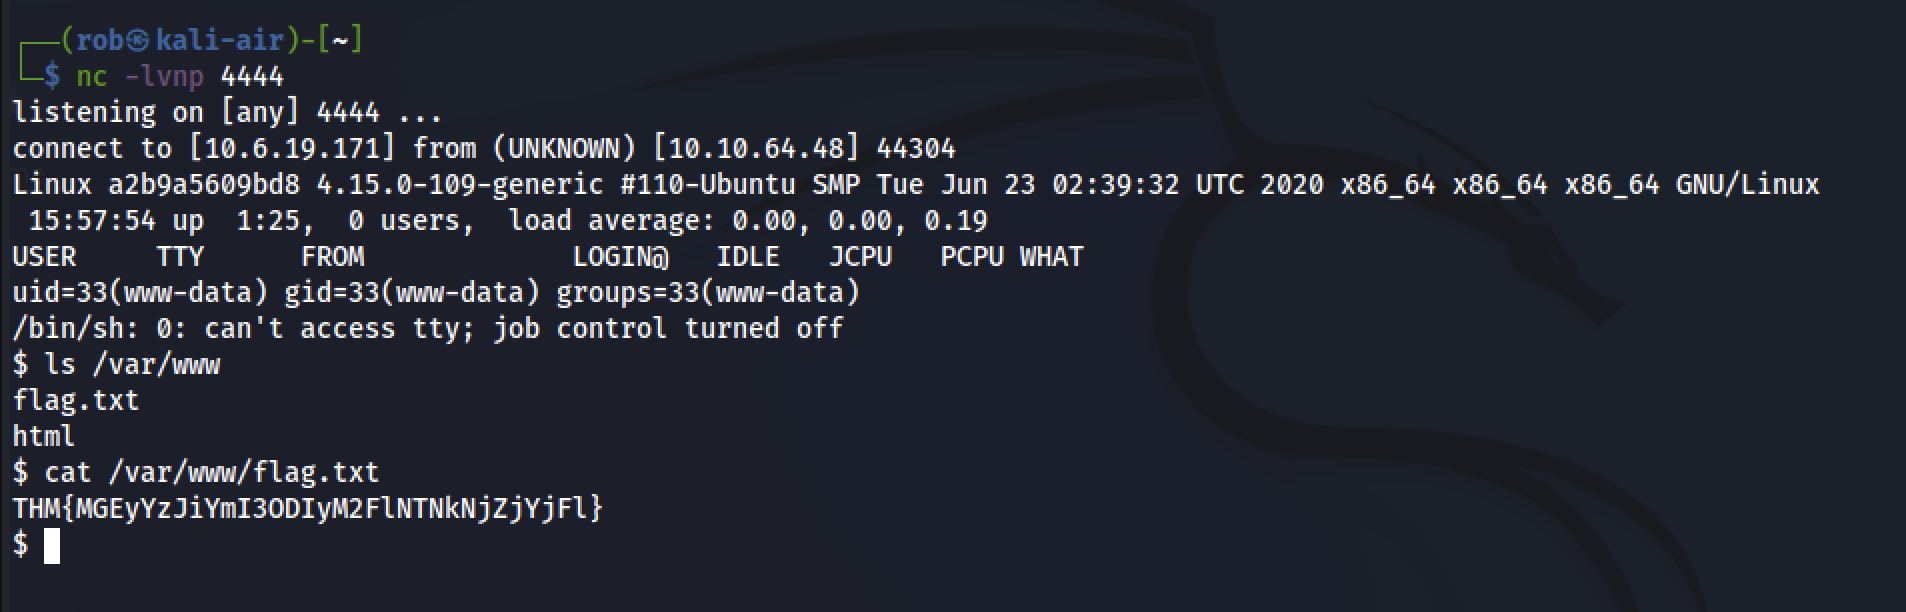
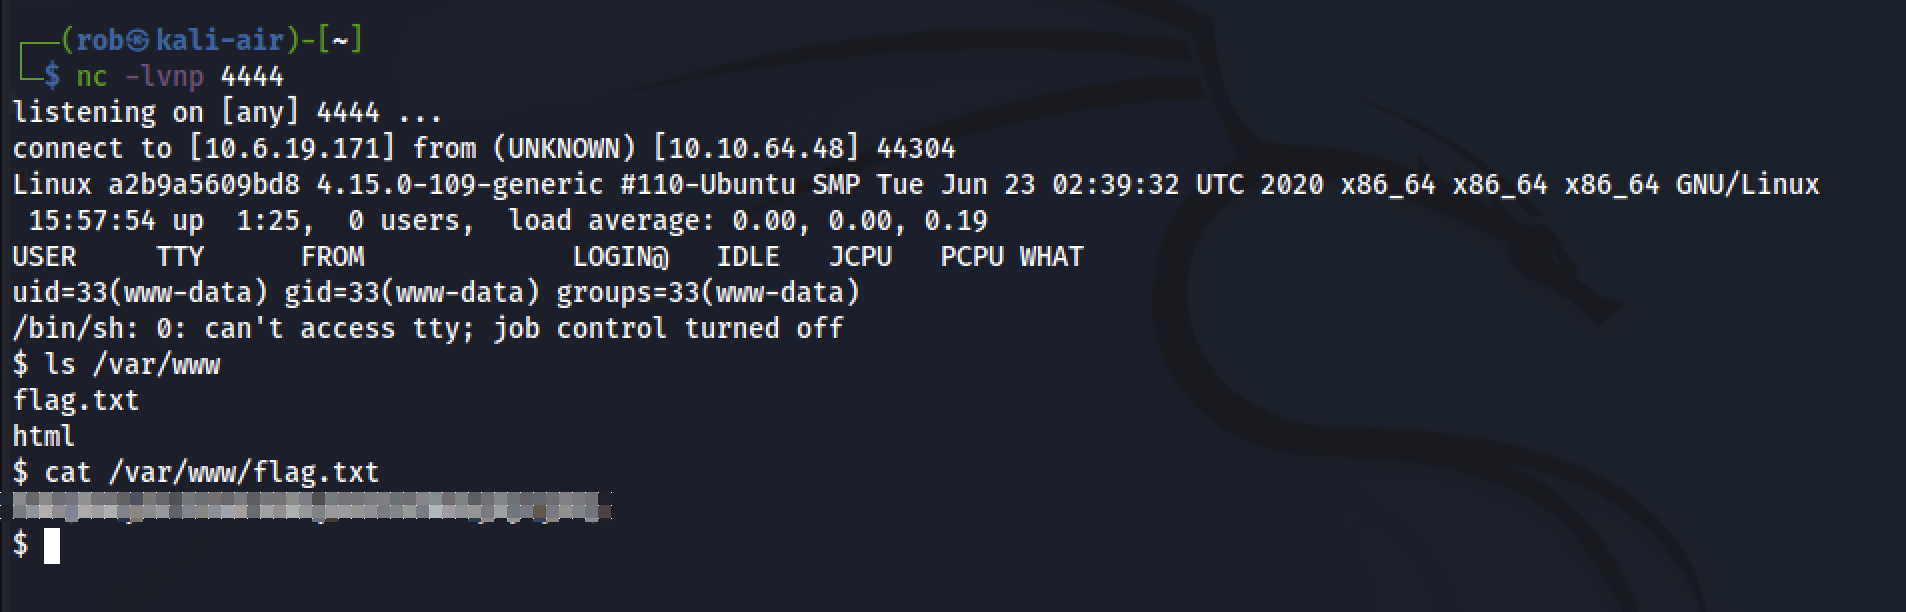
copyediting

Changed region(s): [[0.0, 0.7761, 0.3405, 0.8693]]

diff --git a/docs/posts/2022/04/thm-upload-vulnerabilities-write-up/index.html b/docs/posts/2022/04/thm-upload-vulnerabilities-write-up/index.html
@@ -43,7 +43,7 @@ Task 1 - Getting Started The room begins with a necessary configuration step. Th
 &lt;machine-ip&gt; overwrite.uploadvulns.thm shell.uploadvulns.thm java.uploadvulns.thm annex.uploadvulns.thm magic.uploadvulns.thm jewel.uploadvulns.thm demo.uploadvulns.thm
 Note: You will require administrator-level privileges when editing the file. This can be done via sudo on Linux and Run as Administrator on Windows."><meta itemprop="datePublished" content="2022-04-28T00:00:00+00:00" />
 <meta itemprop="dateModified" content="2022-04-28T00:00:00+00:00" />
-<meta itemprop="wordCount" content="5337"><meta itemprop="image" content="https://robscharf.github.io/"/>
+<meta itemprop="wordCount" content="5331"><meta itemprop="image" content="https://robscharf.github.io/"/>
 <meta itemprop="keywords" content="blog,tryhackme,gobuster,burpsuite,php,node.js," />
 <meta name="twitter:card" content="summary_large_image"/>
 <meta name="twitter:image" content="https://robscharf.github.io/"/>
@@ -193,11 +193,9 @@ Note: You will require administrator-level privileges when editing the file. Thi
 <h5 id="what-is-the-name-of-the-image-file-which-can-be-overwritten">What is the name of the image file which can be overwritten?</h5>
 <p>After navigating to <code>overwrite.uploadvulns.thm</code>, we can view the page&rsquo;s source code to learn about the upload destination and image displayed on the page, just like in the example provided.</p>
 <p><img src="https://robscharf.github.io/images/uv/uv-task4.png" alt="uv-task4"></p>
-<p><strong>Answer:</strong>  <code>mountains.jpg</code></p>
 <h4 id="question-42">Question 4.2</h4>
 <h5 id="overwrite-the-image-what-is-the-flag-you-receive">Overwrite the image. What is the flag you receive?</h5>
 <p><img src="https://robscharf.github.io/images/uv/uv-task4-2.png" alt="uv-task4-2"></p>
-<p><strong>Answer:</strong> <code>THM{OTBiODQ3YmNjYWZhM2UyMmYzZDNiZjI5}</code></p>
 <h2 id="task-5---remote-code-execution">Task 5 - Remote Code Execution</h2>
 <p>There are two primary methods for achieving Remote Code Execution (RCE)</p>
 <ol>
@@ -223,7 +221,6 @@ Note: You will require administrator-level privileges when editing the file. Thi
 <div class="highlight"><pre tabindex="0" style="color:#f8f8f2;background-color:#272822;-moz-tab-size:4;-o-tab-size:4;tab-size:4;"><code class="language-shell" data-lang="shell"><span style="display:flex;"><span>gobuster dir -u shell.uploadvulns.thm -w /usr/share/wordlists/dirbuster/directory-list-lowercase-2.3-medium.txt
 </span></span></code></pre></div><p>creates the following output:</p>
 <p><img src="https://robscharf.github.io/images/uv/uv-gobuster.png" alt="UV - Gobuster"></p>
-<p><strong>Answer:</strong> <code>/resources</code></p>
 <h4 id="question-52">Question 5.2</h4>
 <h5 id="get-either-a-web-shell-or-a-reverse-shell-on-the-machine-whats-the-flag-in-the-varwww-directory-of-the-server">Get either a web shell or a reverse shell on the machine. What&rsquo;s the flag in the /var/www/ directory of the server?</h5>
 <p>After editing and uploading the aforementioned Pentest Monkey PHP script, we instantiate the <code>netcat</code> listener</p>
@@ -234,7 +231,6 @@ Note: You will require administrator-level privileges when editing the file. Thi
 <p><img src="https://robscharf.github.io/images/uv/uv-rce.png" alt="uv-rce"></p>
 <p>Then we simply navigate to the <code>/var/www</code> directory to find the flag.</p>
 <p><img src="https://robscharf.github.io/images/uv/uv-flag.png" alt="uv-flag"></p>
-<p><strong>Answer:</strong> <code>THM{YWFhY2U3ZGI4N2QxNmQzZjk0YjgzZDZk}</code></p>
 <h2 id="task-6---filtering">Task 6 - Filtering</h2>
 <p>This task introduces the notion that, thus far, we have not encountered any form of security measures that have been implemented by developers to mitigate the effects of would-be file upload vulnerabilities. In this task, we begin to consider the relevant security mechanisms and how to circumvent them.</p>
 <p>Our first focus will be on the concept of <em>filtering</em>, that is, attempts to prevent unintended files from being successfully uploaded to the server. This is accomplished through two primary approaches:</p>
@@ -375,7 +371,6 @@ Note: You will require administrator-level privileges when editing the file. Thi
 <p><img src="https://robscharf.github.io/images/uv/uv-java-rce.png" alt="uv-java-rce"></p>
 <p>From here we can navigate to the flag!</p>
 <p><img src="https://robscharf.github.io/images/uv/uv-java-flag.png" alt="uv-java-flag"></p>
-<p><strong>Answer:</strong> <code>THM{NDllZDQxNjJjOTE0YWNhZGY3YjljNmE2}</code></p>
 <h2 id="task-8---bypassing-server-side-filtering-file-extensions">Task 8 - Bypassing Server-side Filtering: File Extensions</h2>
 <p>The previous task was fairly simple, as local filters can be viewed and analyzed, even if this requires a bit of deobfuscatoin or processing. With Server-side filtering, filters can not be viewed directly, thus requiring more experimentation and testing to determine which payloads are permitted by the server.</p>
 <h3 id="methodology-1">Methodology</h3>
@@ -433,7 +428,6 @@ Note: You will require administrator-level privileges when editing the file. Thi
 <div class="highlight"><pre tabindex="0" style="color:#f8f8f2;background-color:#272822;-moz-tab-size:4;-o-tab-size:4;tab-size:4;"><code class="language-shell" data-lang="shell"><span style="display:flex;"><span>nc -lvnp <span style="color:#ae81ff">4444</span>
 </span></span></code></pre></div><p>and then run the script by visiting the file&rsquo;s location in our browser.</p>
 <p><img src="https://robscharf.github.io/images/uv/anx-solution.png" alt="anx-solution"></p>
-<p><strong>Answer:</strong> THM{MGEyYzJiYmI3ODIyM2FlNTNkNjZjYjFl}</p>
 <h2 id="task-9---bypassing-server-side-filtering-magic-numbers">Task 9 - Bypassing Server-Side Filtering: Magic Numbers</h2>
 <p>This task builds on the previous one, highlighting the use of &ldquo;magic number checking&rdquo; as an approach to server-side filtering.</p>
 <h3 id="methodology-2">Methodology</h3>
@@ -462,7 +456,6 @@ Note: You will require administrator-level privileges when editing the file. Thi
 <p><img src="https://robscharf.github.io/images/uv/magic-disguised-php.png" alt="magic-disguised-php"></p>
 <p>We are then able to successfully upload <code>ptm-shell.php</code> to the server, activate our <code>netcat</code> listener, and execute the script by navigating to <code>http://magic.uploadvulns.thm/graphics/ptm-shell.php</code>. This spawns our reverse shell and gives us access to the flag.</p>
 <p><img src="https://robscharf.github.io/images/uv/magic-flag.png" alt="magic-flag"></p>
-<p><strong>Answer:</strong> THM{MWY5ZGU4NzE0ZDlhNjE1NGM4ZThjZDJh}</p>
 <h2 id="task-10---example-methodology">Task 10 - Example Methodology</h2>
 <p>This task gives a useful broken-down overview of the process of auditing and exploiting file upload vulnerabilities on a given target. I will paraphrase the content below, but certainly encourage reading <a href="https://tryhackme.com/room/uploadvulns">the full version</a> in the THM room.</p>
 <h3 id="general-step-by-step-walkthrough">General step-by-step walkthrough</h3>
@@ -577,7 +570,7 @@ we need to figure out how to get our <code>njs-shell.js</code> reverse shell pas
 <p><img src="https://robscharf.github.io/images/uv/jewel-jsjpg-upload.png" alt="jewel-jsjpg-upload"></p>
 <p>To activate our reverse shell and achieve RCE, we&rsquo;ll need to remember to enable our <code>netcat</code> listener with:</p>
 <div class="highlight"><pre tabindex="0" style="color:#f8f8f2;background-color:#272822;-moz-tab-size:4;-o-tab-size:4;tab-size:4;"><code class="language-shell" data-lang="shell"><span style="display:flex;"><span>nc -lvnp <span style="color:#ae81ff">4444</span>
-</span></span></code></pre></div><p>Now we can navigate to the secret admin page that we identified at <code>http://jewel.uploadvulns.thm/admin</code> and determine how to activate our reverse shell via <code>http://jewel.uploadvulns.thm/content/LED.jpg</code>. The placeholder text of the form field tells us that we can input the location of files to execute from the <code>/modules</code> directory. From our previous More Enumeration efforts, we know that the <code>/content</code> directory sits adjacent to <code>/modules</code>  within the server&rsquo;s filesystem. Thus, unless actively prohibited, we can XXXXXXX. This means that by entering <code>../content/LED.jpg</code>, we should be able to activate our reverse shell script.</p>
+</span></span></code></pre></div><p>Now we can navigate to the secret admin page that we identified at <code>http://jewel.uploadvulns.thm/admin</code> and determine how to activate our reverse shell via <code>http://jewel.uploadvulns.thm/content/LED.jpg</code>. The placeholder text of the form field tells us that we can input the location of files to execute from the <code>/modules</code> directory. From our previous More Enumeration efforts, we know that the <code>/content</code> directory sits adjacent to <code>/modules</code> under the root level of the server&rsquo;s filesystem. Thus, unless actively prohibited, we can use <code>.../</code> to traverse directories. This means that by entering <code>../content/LED.jpg</code>, we should be able to activate our reverse shell script.</p>
 <p><img src="https://robscharf.github.io/images/uv/jewel-led-rce.png" alt="jewel-led-rce"></p>
 <p><em>et voilà!</em></p>
 <p>Thanks to <a href="https://tryhackme.com/p/MuirlandOracle">MuirlandOracle</a> for the informative room!</p>
@@ -627,7 +620,7 @@ we need to figure out how to get our <code>njs-shell.js</code> reverse shell pas
           <line x1="16" y1="17" x2="8" y2="17"></line>
           <polyline points="10 9 9 9 8 9"></polyline>
         </svg>
-        5337 Words
+        5331 Words
       </p>
 
       <p>

diff --git a/content/posts/april-28.md b/content/posts/april-28.md
@@ -58,15 +58,10 @@ After navigating to `overwrite.uploadvulns.thm`, we can view the page's source c
 
 ![uv-task4](/images/uv/uv-task4.png)
 
-**Answer:**  `mountains.jpg`
-
 #### Question 4.2
 ##### Overwrite the image. What is the flag you receive?
 
 ![uv-task4-2](/images/uv/uv-task4-2.png)
-
-
-**Answer:** `THM{OTBiODQ3YmNjYWZhM2UyMmYzZDNiZjI5}`
 
 ## Task 5 - Remote Code Execution
 There are two primary methods for achieving Remote Code Execution (RCE)
@@ -113,8 +108,6 @@ creates the following output:
 
 ![UV - Gobuster](/images/uv/uv-gobuster.png)
 
-**Answer:** `/resources`
-
 #### Question 5.2
 ##### Get either a web shell or a reverse shell on the machine. What's the flag in the /var/www/ directory of the server?
 
@@ -133,8 +126,6 @@ However, our `netcat` listener has picked up the reverse shell!
 Then we simply navigate to the ``/var/www`` directory to find the flag. 
 
 ![uv-flag](/images/uv/uv-flag.png)
-
-**Answer:** `THM{YWFhY2U3ZGI4N2QxNmQzZjk0YjgzZDZk}`
 
 ## Task 6 - Filtering
 This task introduces the notion that, thus far, we have not encountered any form of security measures that have been implemented by developers to mitigate the effects of would-be file upload vulnerabilities. In this task, we begin to consider the relevant security mechanisms and how to circumvent them.
@@ -174,7 +165,6 @@ The room text explains that:
 and gives us this example:
 
 ![mime-example](/images/uv/mime-example.png)
-
 
 ##### Magic Number Validation
 While not being impossible to forge, magic numbers are a more accurate way to determine the contents of a file than MIME Validation.  A file's "magic number" appears as a string of bytes at the beginning of a file. The course gives us an example:
@@ -325,9 +315,6 @@ From here we can navigate to the flag!
 
 ![uv-java-flag](/images/uv/uv-java-flag.png)
 
-**Answer:** `THM{NDllZDQxNjJjOTE0YWNhZGY3YjljNmE2}`
-
-
 ## Task 8 - Bypassing Server-side Filtering: File Extensions 
 The previous task was fairly simple, as local filters can be viewed and analyzed, even if this requires a bit of deobfuscatoin or processing. With Server-side filtering, filters can not be viewed directly, thus requiring more experimentation and testing to determine which payloads are permitted by the server.
 
@@ -424,8 +411,6 @@ and then run the script by visiting the file's location in our browser.
 
 ![anx-solution](/images/uv/anx-solution.png)
 
-**Answer:** THM{MGEyYzJiYmI3ODIyM2FlNTNkNjZjYjFl}
-
 ## Task 9 - Bypassing Server-Side Filtering: Magic Numbers 
 This task builds on the previous one, highlighting the use of "magic number checking" as an approach to server-side filtering.
 
@@ -478,8 +463,6 @@ This results in our file being recognized as a `.gif` :
 We are then able to successfully upload `ptm-shell.php` to the server, activate our `netcat` listener, and execute the script by navigating to `http://magic.uploadvulns.thm/graphics/ptm-shell.php`. This spawns our reverse shell and gives us access to the flag.
 
 ![magic-flag](/images/uv/magic-flag.png)
-
-**Answer:** THM{MWY5ZGU4NzE0ZDlhNjE1NGM4ZThjZDJh}
 
 ## Task 10 - Example Methodology
 This task gives a useful broken-down overview of the process of auditing and exploiting file upload vulnerabilities on a given target. I will paraphrase the content below, but certainly encourage reading [the full version](https://tryhackme.com/room/uploadvulns) in the THM room.
@@ -614,7 +597,7 @@ To activate our reverse shell and achieve RCE, we'll need to remember to enable 
 nc -lvnp 4444
 ```
 
-Now we can navigate to the secret admin page that we identified at `http://jewel.uploadvulns.thm/admin` and determine how to activate our reverse shell via `http://jewel.uploadvulns.thm/content/LED.jpg`. The placeholder text of the form field tells us that we can input the location of files to execute from the `/modules` directory. From our previous More Enumeration efforts, we know that the `/content` directory sits adjacent to `/modules`  within the server's filesystem. Thus, unless actively prohibited, we can XXXXXXX. This means that by entering `../content/LED.jpg`, we should be able to activate our reverse shell script.
+Now we can navigate to the secret admin page that we identified at `http://jewel.uploadvulns.thm/admin` and determine how to activate our reverse shell via `http://jewel.uploadvulns.thm/content/LED.jpg`. The placeholder text of the form field tells us that we can input the location of files to execute from the `/modules` directory. From our previous More Enumeration efforts, we know that the `/content` directory sits adjacent to `/modules` under the root level of the server's filesystem. Thus, unless actively prohibited, we can use `.../` to traverse directories. This means that by entering `../content/LED.jpg`, we should be able to activate our reverse shell script.
 
 ![jewel-led-rce](/images/uv/jewel-led-rce.png)
 
